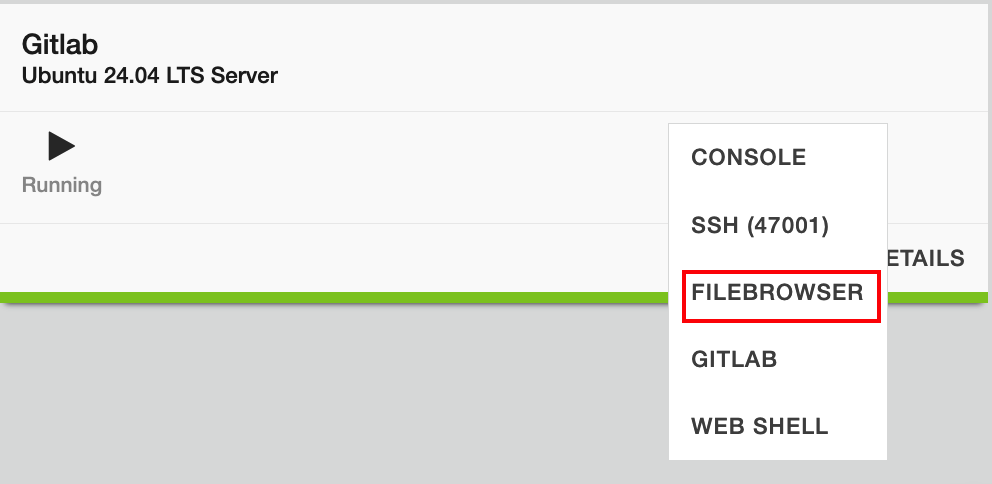
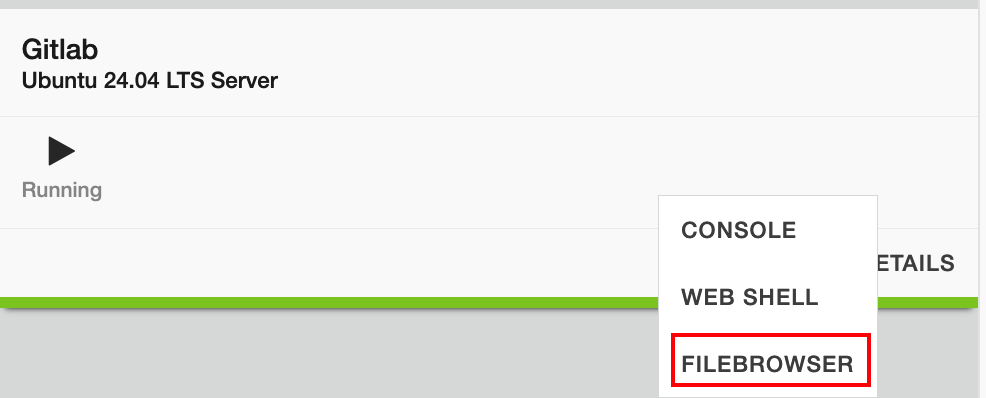
module 0 updates

diff --git a/docs/class7/module0/task4.rst b/docs/class7/module0/task4.rst
@@ -46,9 +46,10 @@ Visual Studio Code Server Access
    |chrome-pop-ups|
 
 VS Code Quick Orientation (For Beginners) - OPTIONAL
------------------------------------------------------
+~~~~~~~~~~~~~~~~~~~~~~~~~~~~~~~~~~~~~~~~~~~~~~~~~~~~~
 
-If you are new to VS Code, here is a quick tour of the interface you’re looking at:
+If you are new to VS Code, here is a quick tour of the interface you’re looking at. If you are 
+familiar with the VScode applicaiton you can safely skip thi step
 
 **Left Panel – Activity Bar & Explorer**
    - The vertical icon bar on the far left is the **Activity Bar**.
@@ -56,6 +57,8 @@ If you are new to VS Code, here is a quick tour of the interface you’re lookin
    - The branch icon opens **Source Control** (used for Git commits).
    - The Cline icon opens the **Cline AI chat**.
    - Think of this panel as your navigation center.
+
+   |task4-vscode-left-bar| 
 
 **Center Panel – Code Editor**
    - This is where files open.
@@ -68,7 +71,7 @@ If you are new to VS Code, here is a quick tour of the interface you’re lookin
    - You can resize this panel by dragging its top border.
 
 Opening a New Terminal
-~~~~~~~~~~~~~~~~~~~~~~
+-----------------------
 
 To open a new terminal manually:
 
@@ -83,7 +86,7 @@ You can open multiple terminals if needed.
 |task4-vscode-new-terminal|
 
 Accessing Source Control
-~~~~~~~~~~~~~~~~~~~~~~~~
+--------------------------
 
 To commit changes to GitLab:
 
@@ -97,7 +100,7 @@ To commit changes to GitLab:
 
 
 Accessing Cline
-~~~~~~~~~~~~~~~
+-----------------
 
 To open Cline:
 
@@ -114,8 +117,9 @@ To open Cline:
 - You control when code is committed.
 - You are always in charge of what gets executed.
 
+
 Configure VS Code Cline Extension
----------------------------------
+~~~~~~~~~~~~~~~~~~~~~~~~~~~~~~~~~~
 
 The Cline extension enables AI-assisted coding using Gemini.  
 In this step, you will connect Cline to the preconfigured Gemini backend.
@@ -225,11 +229,10 @@ Next, you will begin using Cline to generate and modify application code—putti
 .. |task4-vscode-cline| image:: ../images/module0/task4-vscode-cline.png
    :width: 400px
 .. |task4-vscode-left-bar| image:: ../images/module0/task4-vscode-left-bar.png
-   :width: 400px
+   :width: 40px
 .. |task4-vscode-open-terminal| image:: ../images/module0/task4-vscode-open-terminal.png
    :width: 400px
 .. |task4-vscode-new-terminal| image:: ../images/module0/task4-vscode-new-terminal.png
    :width: 400px
 .. |task4-vscode-source-control| image:: ../images/module0/task4-vscode-source-control.png
    :width: 400px
-

diff --git a/docs/class7/module0/task2.rst b/docs/class7/module0/task2.rst
@@ -95,18 +95,15 @@ Generate F5XC API Certificate
 
 To allow GitLab and Terraform to interact with F5 Distributed Cloud programmatically, you must generate an **API certificate**.
 
-10. Navigate to API credential settings.
-
-    In the F5XC console, go to:
+10. In the same **Account Settings** page navigate to API credential settings.
 
     ::
 
        Account Settings → Credentials → Add Credentials
 
     |f5xc-console-account-settings-credentials|
-    |f5xc-console-account-settings-credentials-cert-1|
 
-11. Create a new API certificate.
+11. Cick "Add Credentials" and create a new one with the following settings.
 
     Fill in the following fields:
 
@@ -115,6 +112,13 @@ To allow GitLab and Terraform to interact with F5 Distributed Cloud programmatic
     - **Credential Type:** API Certificate
     - **Password:** ``@ppW0rld2026!``
     - **Expiry Date:** 2 days
+
+
+    .. note::
+       *Do NOT change the password.*  
+       *The GitLab server is preconfigured to expect this exact password.*
+
+    |f5xc-console-account-settings-credentials-cert-1|
 
 12. Download the API certificate.
 
@@ -126,8 +130,8 @@ To allow GitLab and Terraform to interact with F5 Distributed Cloud programmatic
        f5-xc-lab-app.console.ves.volterra.io.api-creds.p12
 
     .. note::
-       *Do NOT rename this file and do NOT change the password.*  
-       *The GitLab server is preconfigured to expect this exact filename and password.*
+       *Do NOT rename this file*  
+       *The GitLab server is preconfigured to expect this exact filename.*
 
    *What to notice:*
 

diff --git a/docs/class7/module0/task3.rst b/docs/class7/module0/task3.rst
@@ -42,12 +42,6 @@ GitLab Server Access
 
    |gitlab-home-page|
 
-   *What to notice:*
-
-   - You are logged in as a pre-created lab user.
-   - The GitLab UI is fully accessible.
-   - The GitLab server was preconfigured with users, projects, and runners.
-
 Configure GitLab Project Variables
 ----------------------------------
 
@@ -94,9 +88,9 @@ This certificate must be uploaded to the GitLab server.
 
 10. Access the Filebrowser service.
 
-    In your UDF deployment, locate the **GitLab Server** tile and click **Access**.
+    In your UDF deployment, locate the **GitLab Server** tile and click **Access**. Click on **FILEBROWSER**.
 
-11. Open **FILEBROWSER**.
+   |gitlab-tile-access-fliebrowser|
 
     On the Filebrowser login page, enter the following credentials:
 
@@ -105,7 +99,7 @@ This certificate must be uploaded to the GitLab server.
 
     |filebrowser-login|
 
-12. Open the upload interface.
+11. Open the upload interface.
 
     After logging in, you should see the Filebrowser landing page.  
     Click the **Upload** button in the top-right corner.
@@ -178,4 +172,6 @@ Next, you will begin committing code and observing how CI/CD enforces security c
 .. |filebrowser-upload| image:: ../images/module0/filebrowser-upload.png
    :width: 400px
 .. |filebrowser-file-logout| image:: ../images/module0/filebrowser-file-logout.png
+   :width: 400px
+.. |gitlab-tile-access-fliebrowser| image:: ../images/module0/gitlab-tile-access-fliebrowser.png
    :width: 400px
